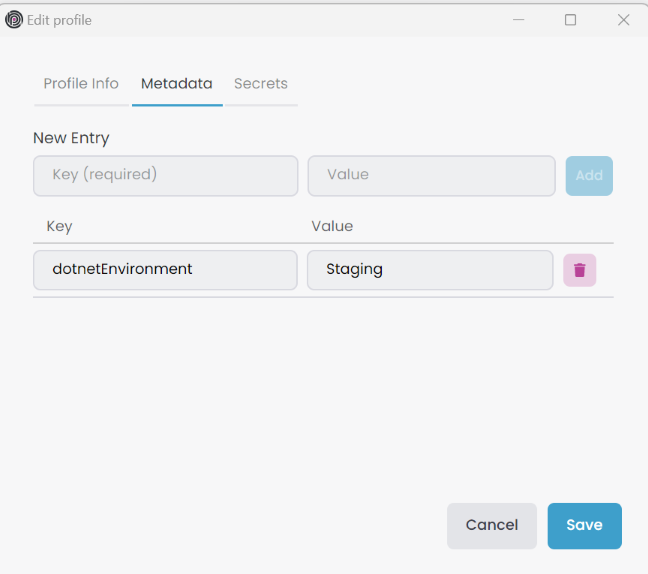
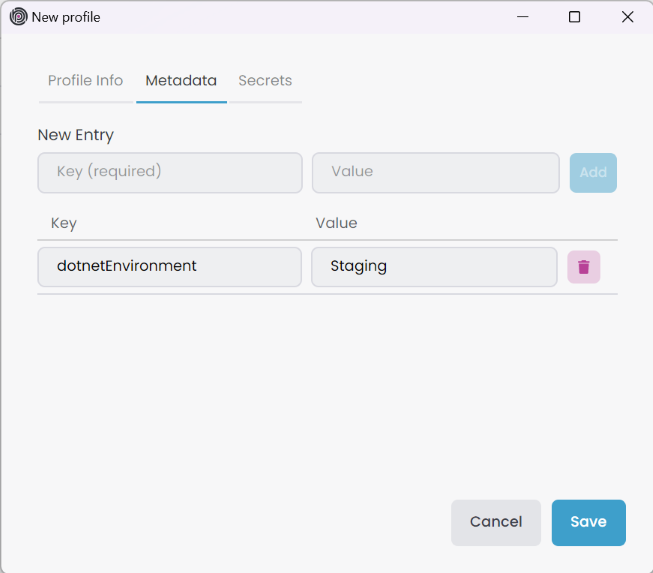
Studio: profile section completed

diff --git a/en/studio/kubernetes.md b/en/studio/kubernetes.md
@@ -17,7 +17,7 @@ The *Kubernetes* panel is available only in the [business and enterprise](https:
 
 ## Profile
 
-You can create multiple profiles to manage different Kubernetes clusters or namespaces within the same cluster. A profile is a set of configurations that you can use to connect to a Kubernetes cluster. If you check the *Kubernetes Configuration* when you create a project in the *Additional Options* step, the *local* profile comes out of the box, including all projects chart. You can view all profiles in the combobox and change the current profile. To edit, click the gear icon located on the right side.
+You can create multiple profiles to manage different Kubernetes clusters or namespaces within the same cluster. A profile is a set of configurations that you can use to connect to a Kubernetes cluster. If you check the *Kubernetes Configuration* when you create a project in the *Additional Options* step, the *local* profile comes out of the box, including all project charts. You can view all profiles in the combobox and change the current profile. To edit, click the gear icon located on the right side.
 
 ![kubernetes-profile](./images/kubernetes/kubernetes-profile.png)
 
@@ -27,10 +27,18 @@ It opens the *Manage Kubernetes Profiles* window. You can edit/delete existing p
 
 ![manage-kubernetes-profile](./images/kubernetes/manage-kubernetes-profile.png)
 
-When you click *Add New Profile*, it opens the *New Profile* window. In the *Profile Info* tab you can provide an arbitrary profile name, which should be unique among the profiles. In the *Context* combobox, you'll see existing Kubernetes contexts. Choose one of them. Afterwards, provide a *Namespace* that should be unique among the each *Context*. When creating a new profile, it stores the JSON file at the specified path. For microservice projects, you can specify the path `abp-solution-path/etc/abp-studio/k8s-profiles`, or for other project types, use `abp-solution-path/etc/k8s-profiles` to adhere to the standard format.
+When you click *Add New Profile* button, it opens the *New Profile* window. In the *Profile Info* tab you can provide an arbitrary profile name, which should be unique among the profiles. In the *Context* combobox, you'll see existing Kubernetes contexts. Choose one of them. Afterwards, provide a *Namespace* that should be unique among the each *Context*. When creating a new profile, it stores the JSON file at the specified path. For microservice projects, you can specify the path `abp-solution-path/etc/abp-studio/k8s-profiles`, or for other project types, use `abp-solution-path/etc/k8s-profiles` to adhere to the standard format.
 
 ![create-new-profile](./images/kubernetes/create-new-profile.png)
 
-In the *Metadata* tab, you can provide additional information about the profile. We're using this informations in our commands such as *Build Docker Image(s)*, *Install Chart(s)*. For example, *dotnetEnvironment* is mandatory for the *Install Chart(s)* command to determine the environment variable. You can also provide additional metadata by clicking the *Add Metadata* button.
+In the *Metadata* tab, you can provide additional information about the profile. We use this information in our commands such as *Build Docker Image(s)* and *Install Chart(s)*. For example, *dotnetEnvironment* is mandatory for the *Install Chart(s)* command to determine the environment variable. You can also add more metadata by clicking the *Add* button.
 
 ![create-new-profile-metadata](./images/kubernetes/create-new-profile-metadata.png)
+
+In the *Secrets* tab, you can provide secrets for the profile. We use this information in our commands such as *wireGuardPassword*. 
+
+![create-new-profile-secrets](./images/kubernetes/create-new-profile-secrets.png)
+
+> Due to security concerns, *Secrets* information is saved in the local file system, not in the solution file. Therefore, you can't share it with your team members by default.
+
+To create a new profile in the *Profile Info* tab *Name*, *Context*, and *Namespace* are mandatory. Additionally, you should provide *dotnetEnvironment* metadata information to use the Install Chart(s) command. Click the *Save* button to create a new profile. It adds the profile to the combobox. Similarly, you can edit or delete an existing profile.
